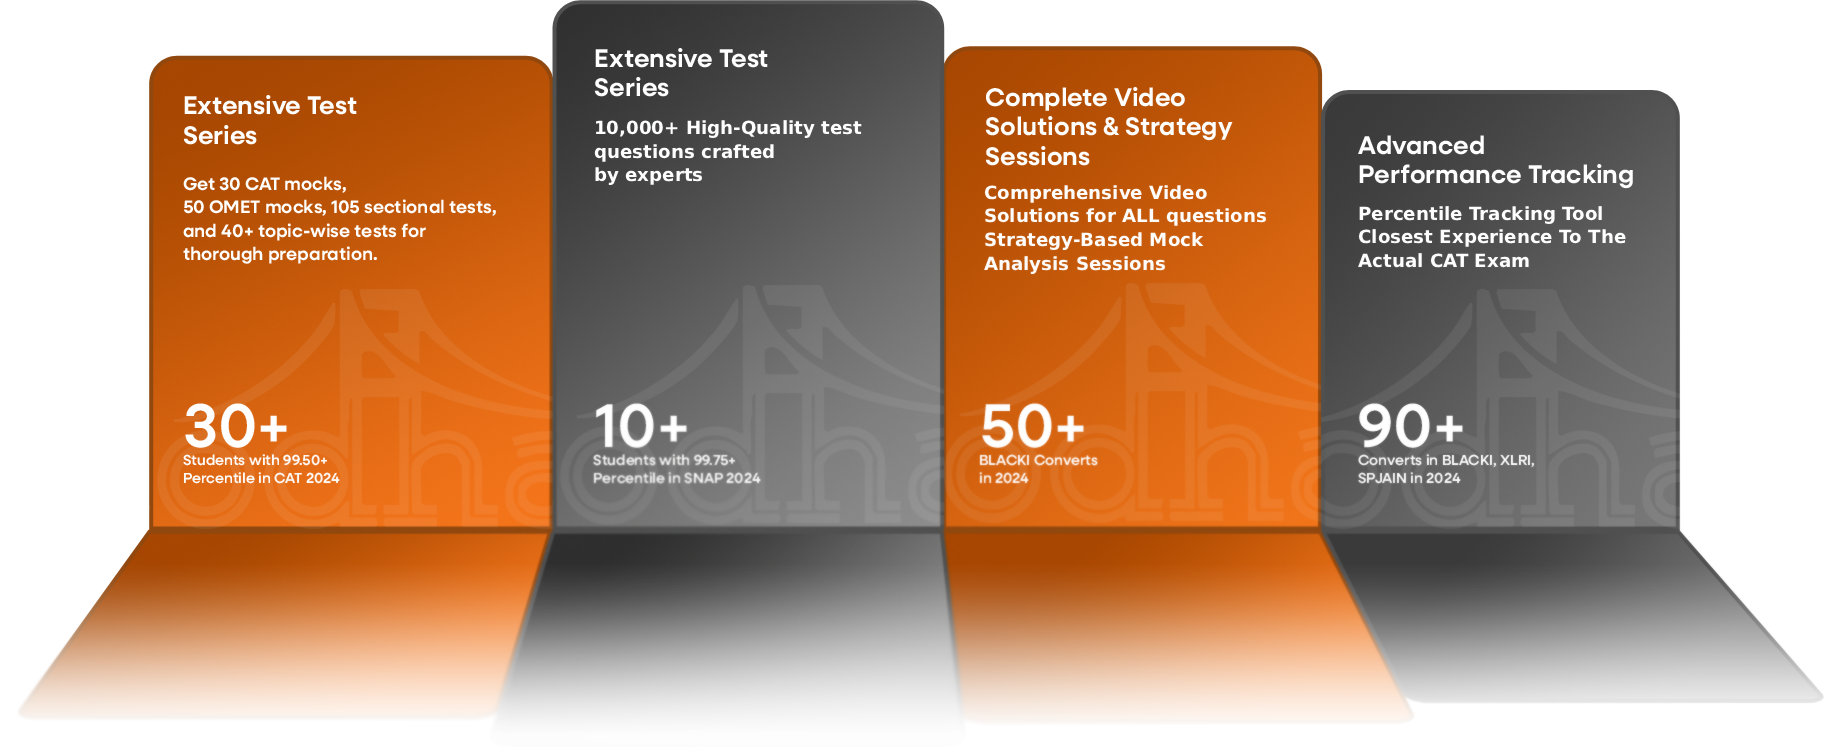
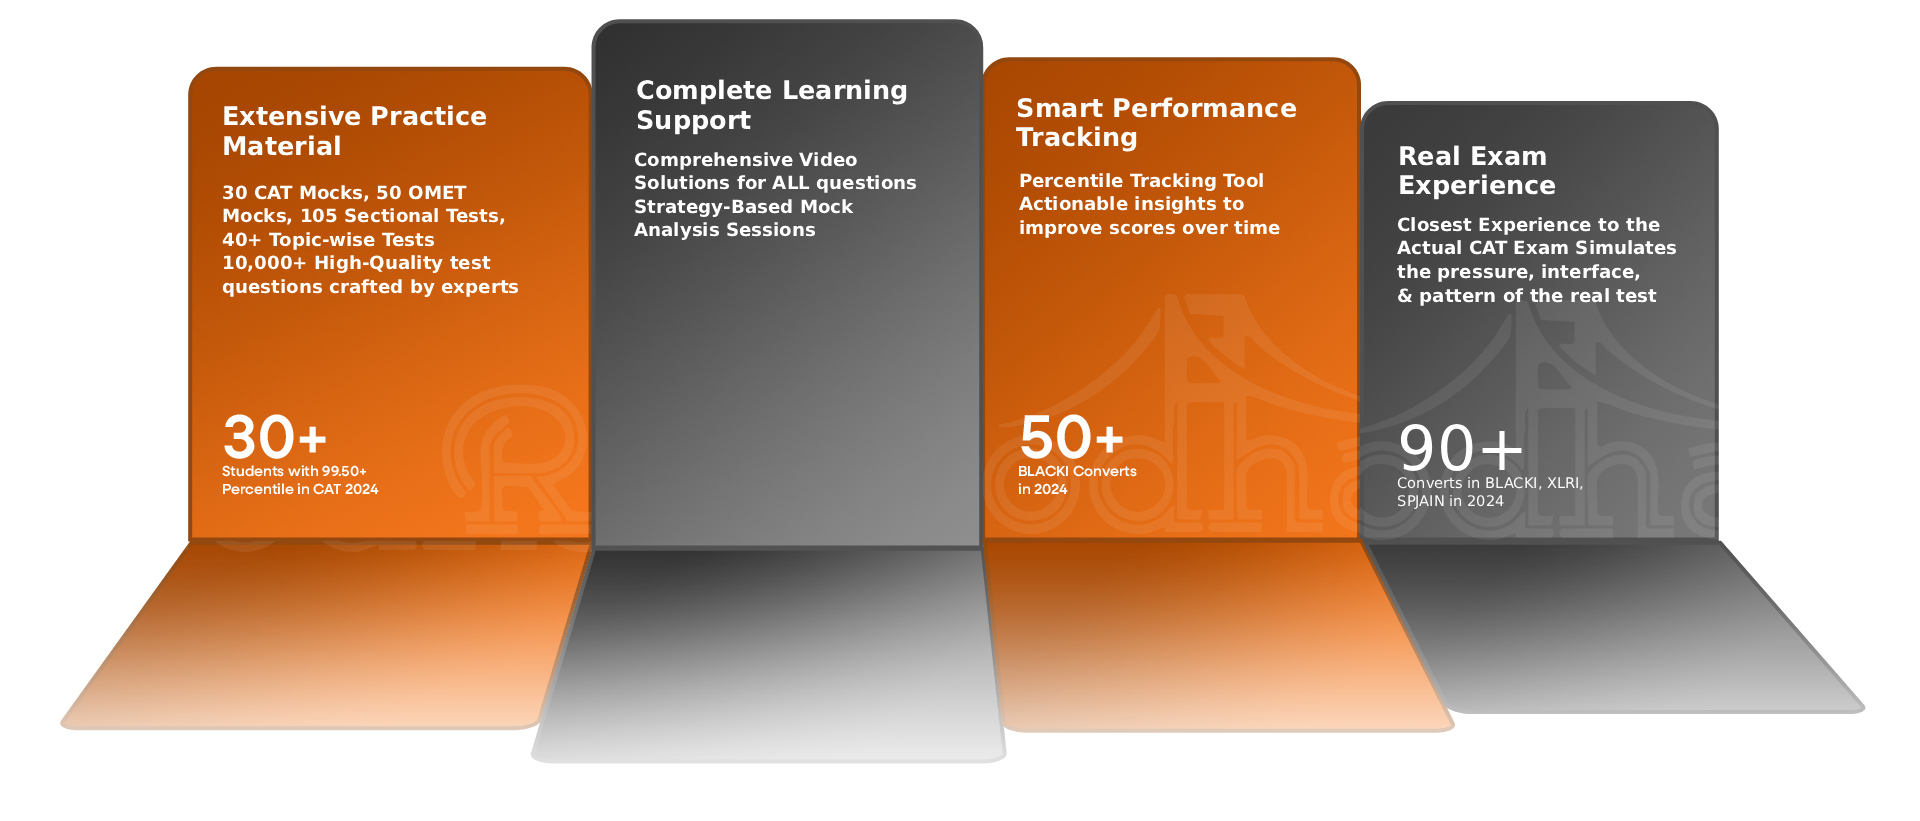
sss
ss

diff --git a/src/components/Whyus.tsx b/src/components/Whyus.tsx
@@ -1,0 +1,82 @@
+import React from "react";
+import bridgeBG from "../assets/images/background/bgback.png";
+
+const features = [
+  {
+    title: "Extensive Test Series",
+    desc: "Get 30 CAT mocks, 50 OMET mocks, 105 sectional tests, and 40+ topic-wise tests for thorough preparation.",
+    highlight: "30+",
+    subtext: "Students with 99%ile percentile in CAT 2024",
+    bg: "bg-[#FF6D1B]",
+    text: "text-white",
+  },
+  {
+    title: "Extensive Test Series",
+    desc: "10,000+ High-Quality test questions crafted by experts",
+    highlight: "10+",
+    subtext: "Students with 99+ %ile percentile in SNAP 2024",
+    bg: "bg-[#333333]",
+    text: "text-white",
+  },
+  {
+    title: "Complete Video Solutions & Strategy Sessions",
+    desc: "Comprehensive Video Solutions for ALL questions, Strategy-Based Mock Analysis Sessions",
+    highlight: "50+",
+    subtext: "BLACK Courses in 2024",
+    bg: "bg-[#FF6D1B]",
+    text: "text-white",
+  },
+  {
+    title: "Advanced Performance Tracking",
+    desc: "Percentile Tracking Tool, Closest Experience To The Actual CAT Exam",
+    highlight: "90+",
+    subtext: "Growers in BLACK X R, SPJAIN in 2024",
+    bg: "bg-[#333333]",
+    text: "text-white",
+  },
+];
+
+const Whyus = () => {
+  return (
+    <section className="relative px-4 overflow-hidden">
+      <div className="max-w-6xl mx-auto text-center z-10 relative ">
+        <h2 className="text-white text-3xl md:text-4xl font-semibold mb-4">
+          Why <span className="text-[#FF6D1B]">Choose Us?</span>
+        </h2>
+        <p className="text-gray-300 max-w-2xl mx-auto mb-16">
+          Rodha is not just another CAT coaching program. <span className="text-[#FF6D1B]">We focus on developing skills</span> that make you stand out in the corporate world.
+        </p>
+        <div className="w-[100%] hidden sm:block pointer-events-none select-none">
+          <img src={bridgeBG}/>
+        </div>
+
+         <div className="grid grid-cols-1 sm:grid-cols-2 md:grid-cols-4 gap-8 sm:hidden">
+          {features.map((feature, idx) => (
+            <div
+              key={idx}
+              className={`relative p-6 rounded-t-[20px] shadow-lg ${feature.bg} ${feature.text} transition-transform transform hover:-translate-y-2 duration-300`}
+            >
+              <div className="absolute inset-0 opacity-10 bg-center bg-contain bg-no-repeat" style={{ backgroundImage: `url('/assets/images/background/group-bg.png')` }}></div>
+              <h3 className="text-lg font-semibold relative z-10 mb-2 min-h-[56px]">
+                {feature.title}
+              </h3>
+              <p className="text-sm relative z-10 min-h-[80px]">
+                {feature.desc}
+              </p>
+              <div className="mt-6 relative z-10">
+                <p className="text-4xl font-bold">{feature.highlight}</p>
+                <p className="text-xs mt-1 text-gray-300 max-w-[90%] mx-auto">
+                  {feature.subtext}
+                </p>
+              </div>
+            </div>
+          ))}
+        </div>
+      </div>
+
+
+    </section>
+  );
+};
+
+export default Whyus;

diff --git a/src/components/WhyChooseUs.tsx b/src/components/WhyChooseUs.tsx
@@ -1,0 +1,47 @@
+import React from "react";
+import { Check } from "lucide-react";
+import WhyUs from "../assets/images/whychoose/whychoose.png";
+import Whyus from "./Whyus";
+
+export default function WhyChooseUs() {
+  return (
+    <>
+     {/* <div className="w-full md:w-1/2 m-auto px-4 md:px-8 text-center">
+          <h2 className="text-4xl font-semibold mb-4 leading-tight">
+            Why <span className="text-[#FF6B00] font-bold">Choose Us?</span>
+          </h2>
+          <p className="text-[17px] mb-6 text-[#4A4A4A] dark:text-[#CCCCCC] font-semibold">
+            Rodha is not just another CAT coaching program.{" "}
+            <span className="text-[#FF6B00] font-semibold">
+              We focus on developing skills
+            </span>{" "}
+            that make you stand out in the corporate world.
+          </p>
+
+
+        </div> */}
+     
+    <div
+      id="why-choose-us"
+      className="bg-white dark:bg-[#121212] text-[#2B2B2B] dark:text-white flex items-center justify-center py-16"
+    >
+      <div className="max-w-7xl mx-auto flex flex-col md:flex-row items-center">
+        {/* Left: Image */}
+        <div className="w-full md:w-1/2 flex justify-center mb-12 md:mb-0">
+          <img
+            src={WhyUs}
+            alt="Instructor"
+            className="rounded-lg max-h-[500px] object-contain"
+          />
+        </div>
+
+        {/* Right: Content */}
+        <div className="w-full md:w-2/3 px-4 md:px-8 text-left">
+            <Whyus/>
+        </div>
+      </div>
+    </div>
+
+       </>
+  );
+}

diff --git a/src/pages/Home.tsx b/src/pages/Home.tsx
@@ -3,7 +3,7 @@ import React from "react";
 import Header from "../components/Header";
 import HeroSection from "../components/HeroSection";
 import SuccessStories from "../components/SuccessStories";
-import WhyChoose from "../components/WhyChoose";
+
 import StatsSection from "../components/StatsSection";
 import MockPrograms from "../components/MockPrograms";
 import ComparisonTable from "../components/ComparisonTable";
@@ -13,6 +13,7 @@ import Testimonials from "../components/Testimonials";
 import CatMockBanner from "../components/CatMockBanner";
 import ContactForm from "../components/ContactForm";
 import Footer from "../components/Footer";
+import WhyChooseUs from "@/components/WhyChooseUs";
 
 export default function Home() {
   return (
@@ -20,7 +21,7 @@ export default function Home() {
       <Header />
       <HeroSection />
       <SuccessStories />
-      <WhyChoose />
+      <WhyChooseUs />
       <StatsSection />
       <MockPrograms />
       <ComparisonTable />

diff --git a/src/components/SuccessStories.tsx b/src/components/SuccessStories.tsx
@@ -33,8 +33,8 @@ export default function SuccessStories() {
       highlights: [
         { text: "30+ Scored", color: "#6EE6FF" },
         { text: "99+ %ile", color: "#ffffffff" },
-        { text: "25+ Scored", color: "#FD6A02" },
-        { text: "99+ %ile", color: "#6EE6FF"},
+        { text: "", color: "#FD6A02" },
+        { text: "", color: "#6EE6FF"},
       ]
     },
     SNAP: {
@@ -44,8 +44,8 @@ export default function SuccessStories() {
       highlights: [
         { text: "25+ Scored", color: "#6EE6FF" },
         { text: "99+ %ile", color: "#ffffffff" },
-        { text: "25+ Scored", color: "#FD6A02" },
-        { text: "99+ %ile", color: "#6EE6FF"},
+        { text: "", color: "#FD6A02" },
+        { text: "", color: "#6EE6FF"},
       ]
     }
   };

diff --git a/src/components/ScoreCard.tsx b/src/components/ScoreCard.tsx
@@ -21,7 +21,7 @@ export default function ScoreCard() {
         <h2 className="text-center text-black dark:text-white text-3xl font-bold pb-10 flex justify-center items-center">
           Track <span className="align-middle pb-3 px-2"> . </span>
           <b className="text-orange-500">
-            Improve <span className="align-middle pb-3 inline-block">.</span> Excel
+            Improve <span className="align-middle pb-3 inline-block">.</span> <span className="text-black dark:text-white">Excel</span>
           </b>
         </h2>
 
